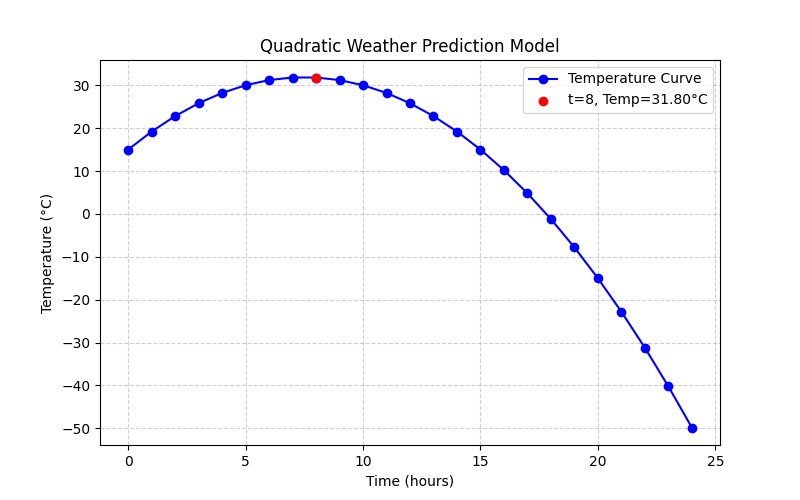
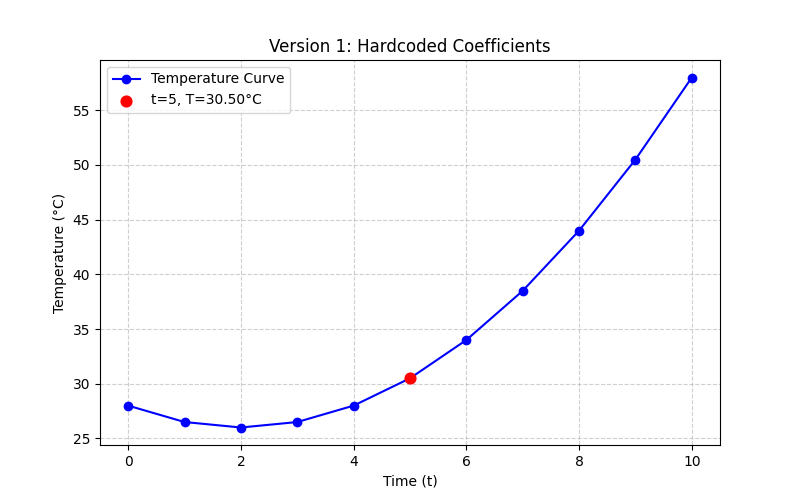
updated graphs

diff --git a/iterative_model.py b/iterative_model.py
@@ -1,42 +1,49 @@
-# ===== ITERATIVE MODEL =====
+# ===== VERSION 3: ITERATIVE MODEL (U-shape) =====
 import matplotlib.pyplot as plt
 import numpy as np
 
 print("=== ITERATIVE MODEL ===")
 
-# Quadratic model function
+# Quadratic model function (U-shape parabola)
 def quadratic_weather_model(hour):
-    a, b, c = -0.02, 0.5, 15
+    a, b, c = 0.02, -0.5, 20   # positive a -> U shape
     return a * (hour ** 2) + b * hour + c
 
 # Iterations
 iterations = 3
-hours = np.arange(0, 25, 12)  # checking every 12 hours
+check_hours = np.arange(0, 25, 12)  # checking every 12 hours
+plot_hours = np.arange(0, 25, 1)    # smooth curve for plotting
 all_temps = []
 
 for iteration in range(1, iterations + 1):
     print(f"Iteration {iteration}:")
     temps = []
-    for hour in hours:
+    for hour in check_hours:
         temp = quadratic_weather_model(hour)
         temps.append(temp)
         print(f"Time: {hour} hrs -> Temp: {temp:.2f}°C")
     print("---")
     all_temps.append(temps)
 
-# Plot the graph
+# Plot graph
 plt.figure(figsize=(8,5))
 
-for i, temps in enumerate(all_temps, start=1):
-    plt.plot(hours, temps, marker='o', linestyle='-', label=f"Iteration {i}")
+for i in range(iterations):
+    temps = [quadratic_weather_model(h) for h in plot_hours]
+    plt.plot(plot_hours, temps, linestyle='-', label=f"Iteration {i+1}")
 
-plt.title("Iterative Model - Weather Prediction")
+# Highlight check points
+for hour in check_hours:
+    temp = quadratic_weather_model(hour)
+    plt.scatter(hour, temp, color='r', s=70, zorder=5)
+
+plt.title("Version 3: Iterative Model (U-shape)")
 plt.xlabel("Time (hours)")
 plt.ylabel("Temperature (°C)")
 plt.grid(True, linestyle="--", alpha=0.6)
 plt.legend()
 
-# Save graph as PNG
+# Save PNG
 plt.savefig("iterative_graph.png")
 
-print("\nGraph saved as 'iterative_graph.png' in your repository.")
+print("\nGraph saved as 'iterative_graph_v3_ushape.png' in your repository.")

diff --git a/version2_keyboard.py b/version2_keyboard.py
@@ -2,29 +2,29 @@ import matplotlib.pyplot as plt
 import numpy as np
 
 # Take user input
-a = float(input("enter a value: "))
-b = float(input("enter b value: "))
-c = float(input("enter c value: "))
-t = float(input("enter t value: "))
+a = float(input("Enter a value: "))
+b = float(input("Enter b value: "))
+c = float(input("Enter c value: "))
+t = float(input("Enter t value: "))
 
 # Calculate temperature at given t
 temp = a * t**2 + b * t + c
-print(f"Temp at t={t}: {temp:.2f}°C")
+print(f"Temperature at t={t}: {temp:.2f}°C")
 
 # Function
 def quadratic_weather_model(x):
     return a * x**2 + b * x + c
 
-# Range of time values (0–24 hours)
-times = np.arange(0, 25, 1)  # every 1 hour
+# Range of time values (0–10 for clean graph)
+times = np.arange(0, 11, 1)
 temps = [quadratic_weather_model(x) for x in times]
 
 # Plot graph
 plt.figure(figsize=(8,5))
 plt.plot(times, temps, marker='o', linestyle='-', color='b', label="Temperature Curve")
-plt.scatter(t, temp, color='r', s=100, zorder=5, label=f"t={t}, Temp={temp:.2f}°C")  # highlight user point
-plt.title("Quadratic Weather Prediction Model")
-plt.xlabel("Time (hours)")
+plt.scatter(t, temp, color='r', s=80, zorder=5, label=f"t={t}, T={temp:.2f}°C")
+plt.title("Version 2: User Input Coefficients")
+plt.xlabel("Time (t)")
 plt.ylabel("Temperature (°C)")
 plt.grid(True, linestyle="--", alpha=0.6)
 plt.legend()
@@ -33,4 +33,4 @@ plt.legend()
 plt.savefig("user_input_weather.png")
 plt.close()
 
-print("\nGraph saved as 'user_input_weather.png' in your repository.")
+print("\nGraph saved as 'user_input_weather_v2.png' in your repository.")

diff --git a/version1_hardcoded.py b/version1_hardcoded.py
@@ -2,39 +2,39 @@ import matplotlib.pyplot as plt
 import numpy as np
 
 # Coefficients
-a = -0.3
-b = 4.5
-c = 15.0
+a = 0.5
+b = -2.0
+c = 28.0
 
-# Function
+# Quadratic function
 def quadratic_weather_model(t):
     return a * t**2 + b * t + c
 
-# Range of time values (0 to 24 hours)
-times = np.arange(0, 25, 1)  # every 1 hour
+# Range of time values (0 to 10)
+times = np.arange(0, 11, 1)
 temps = [quadratic_weather_model(t) for t in times]
 
-# Specific calculation for t = 8
-t = 8
+# Specific calculation for t = 5
+t = 5
 temperature = quadratic_weather_model(t)
 
-print("Weather Prediction Model")
+print("Weather Prediction Model - Version 1: Hardcoded Coefficients")
 print(f"Time (t) = {t}")
 print(f"Predicted temperature: {temperature:.2f}°C")
 
 # Plot graph
 plt.figure(figsize=(8,5))
 plt.plot(times, temps, marker='o', linestyle='-', color='b', label="Temperature Curve")
-plt.scatter(t, temperature, color='r', zorder=5, label=f"t={t}, Temp={temperature:.2f}°C")  # highlight t=8
-plt.title("Quadratic Weather Prediction Model")
-plt.xlabel("Time (hours)")
+plt.scatter(t, temperature, color='r', s=60, zorder=5,
+            label=f"t={t}, T={temperature:.2f}°C")
+plt.title("Version 1: Hardcoded Coefficients")
+plt.xlabel("Time (t)")
 plt.ylabel("Temperature (°C)")
 plt.grid(True, linestyle="--", alpha=0.6)
 plt.legend()
 
-# Save PNG for GitHub
+# Save PNG
 plt.savefig("weather_prediction.png")
 plt.close()
 
-print("\nGraph saved as 'weather_prediction.png' in your repository.")
-
+print("\nGraph saved as 'weather_prediction_v1.png'")

diff --git a/waterfall_model.py b/waterfall_model.py
@@ -1,29 +1,29 @@
-# ===== WATERFALL MODEL =====
+# ===== VERSION 1: WATERFALL MODEL =====
 import matplotlib.pyplot as plt
 import numpy as np
 
 print("=== WATERFALL MODEL ===")
 
-# Plan -> Develop -> Test -> Deliver (one cycle)
+# Quadratic model function (U-shape parabola)
 def quadratic_weather_model(hour):
-    # Example quadratic model: temp = a*hour² + b*hour + c
-    a, b, c = -0.02, 0.5, 15   # coefficients (adjust as needed)
+    a, b, c = 0.02, -0.5, 20   # U-shape
     return a * (hour ** 2) + b * hour + c
 
-# Hours (every 6 hrs)
+# Hours (every 6 hrs - sequential like waterfall)
 hours = np.arange(0, 25, 6)
 temps = []
 
 # Predictions
-for hour in hours:
+phases = ["Plan", "Develop", "Test", "Deliver", "Maintain"]
+for i, hour in enumerate(hours):
     temp = quadratic_weather_model(hour)
     temps.append(temp)
-    print(f"Time: {hour} hrs -> Predicted Temp: {temp:.2f}°C")
+    print(f"{phases[i]} -> Time: {hour} hrs -> Predicted Temp: {temp:.2f}°C")
 
 # Plot the graph
 plt.figure(figsize=(8,5))
 plt.plot(hours, temps, marker='o', linestyle='-', color='b', label="Predicted Temp")
-plt.title("Waterfall Model - Weather Prediction")
+plt.title("Version 4: Waterfall Model - Weather Prediction")
 plt.xlabel("Time (hours)")
 plt.ylabel("Temperature (°C)")
 plt.grid(True, linestyle="--", alpha=0.6)
@@ -33,4 +33,4 @@ plt.legend()
 plt.savefig("waterfall_model_plot.png")
 plt.close()
 
-print("\nGraph saved as 'waterfall_model_plot.png' in your repository.")
+print("\nGraph saved as 'waterfall_model_v4.png' in your repository.")
